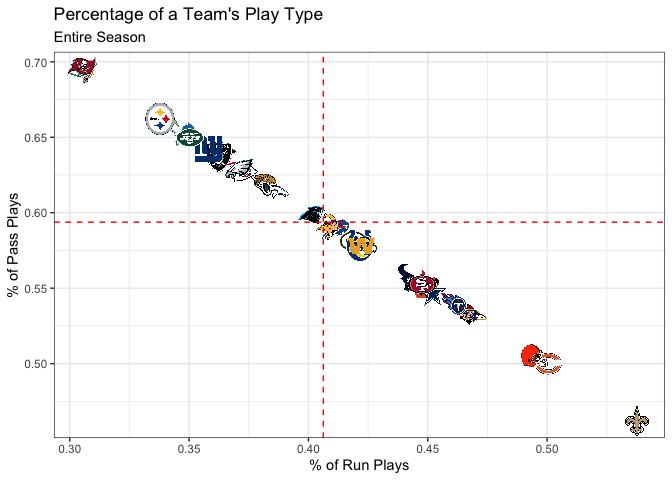
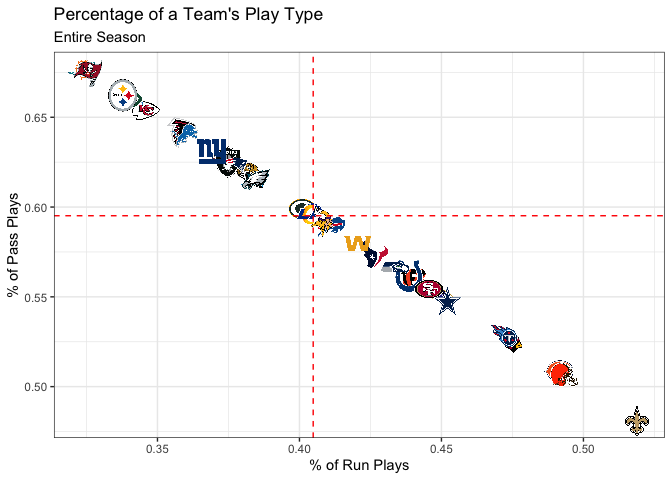
2021-10-26

diff --git a/NFL-Report.md b/NFL-Report.md
@@ -1,5 +1,5 @@
 
-# NFL Landscape: Week 6
+# NFL Landscape: Week 7
 
 ### Overall Efficiency Landscape
 
